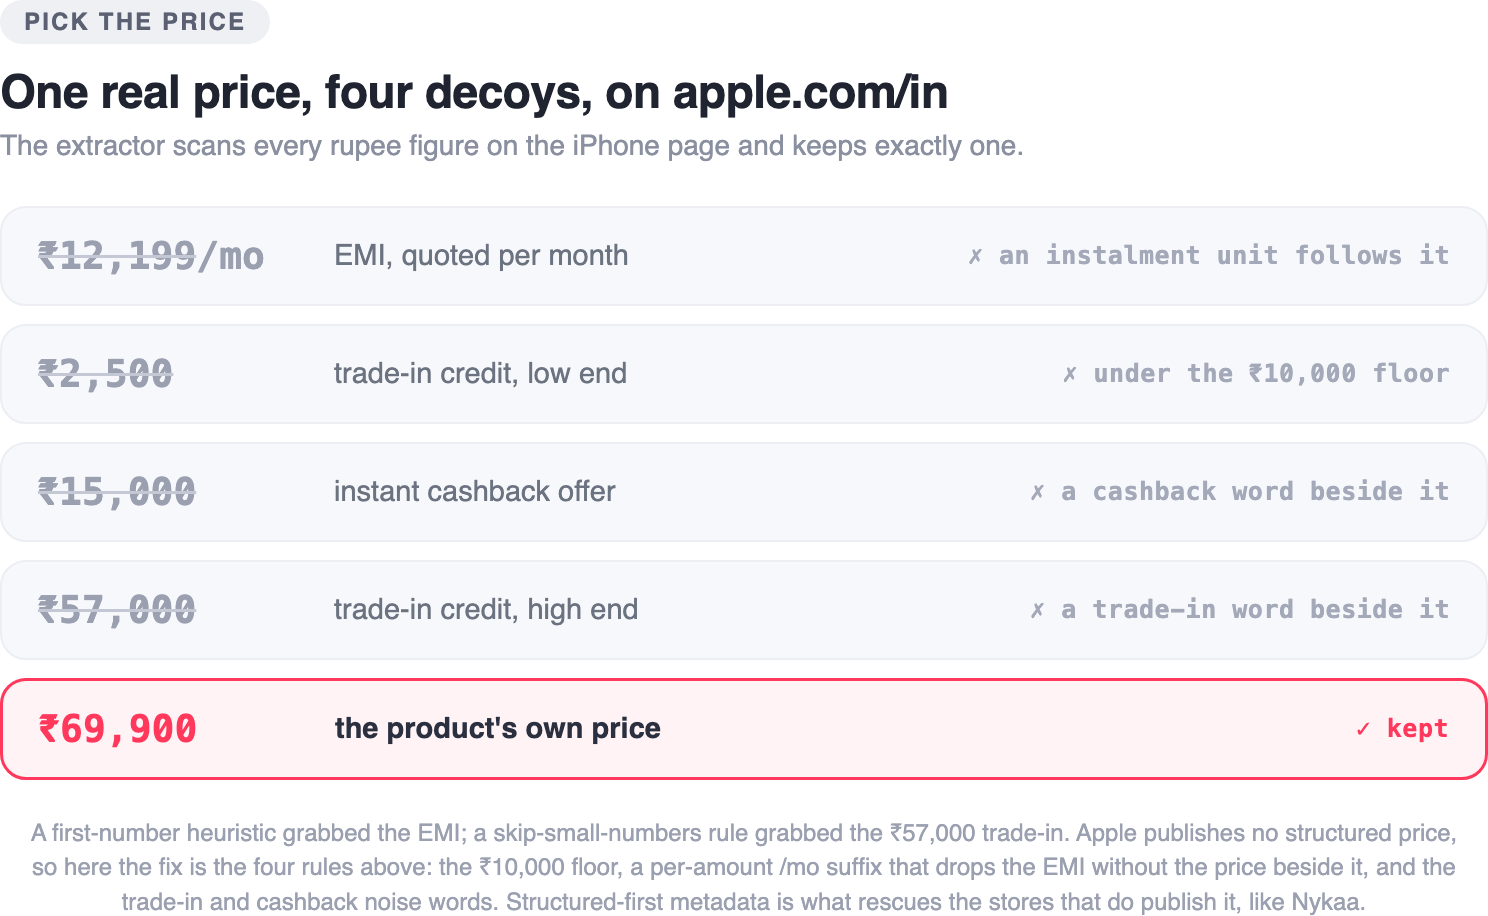
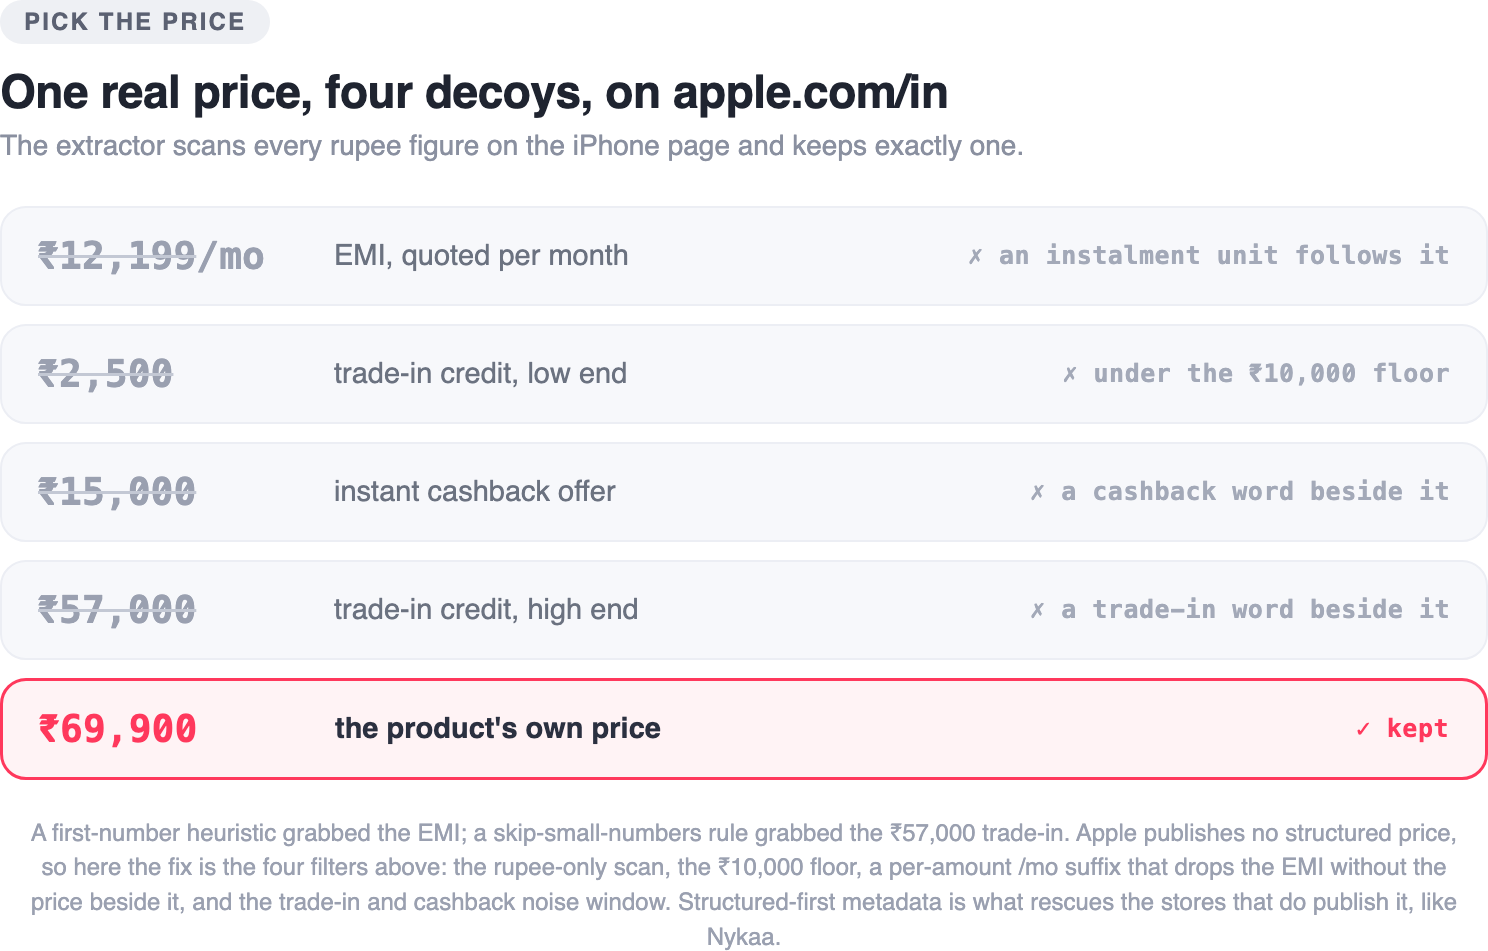
content(09-browser): diagram alt matches its rows, one four-filter count, self-contained scar

diff --git a/medium/09-browser.html b/medium/09-browser.html
@@ -73,7 +73,7 @@ font-size:15px;font-family:-apple-system,sans-serif;color:#7a6a00}
 <p>The page is scraped, the modal is open. Everything now rides on the scrape having found the right number, and on a page like Apple&#x27;s that is the hardest thing in the step.</p>
 <h2>Pick the one real price</h2>
 <p>The naive scraper is easy to write: find the first currency-prefixed number on the page and call it the price. On a clean page it works. On a real one it is wrong almost every time, because a store page is thick with numbers that look exactly like prices and are not.</p>
-<p>Open an iPhone on <code>apple.com/in</code> and the page carries, in rupees, an EMI line (&quot;From ₹12199.00/mo.&quot;), a trade-in credit (&quot;Get ₹2500.00 to ₹57000.00 for your trade-in&quot;), instant cashback, and somewhere in there the real price, ₹69900. The first-number heuristic grabs the EMI. A slightly smarter one that skips small numbers grabs the ₹57000 trade-in figure. Every naive rule captures a decoy.</p>
+<p>Open an iPhone on <code>apple.com/in</code> and the page carries, in rupees, an EMI line (&quot;From ₹12199.00/mo.&quot;), a trade-in credit (&quot;Get ₹2500.00-₹57000.00 for your trade-in&quot;), instant cashback, and somewhere in there the real price, ₹69,900. The first-number heuristic grabs the EMI. A slightly smarter one that skips small numbers grabs the ₹57,000 trade-in figure. Every naive rule captures a decoy.</p>
 <p>Two ideas fix it, and they compose. The first is to prefer the store&#x27;s own structured metadata. A well-built product page publishes its selling price in an OpenGraph or <code>product:price</code> tag, and that number is the live price, already free of the MRP, EMI, and trade-in prose that litters the body. So the extractor reads that first, and only parses the page text when the metadata is absent.</p>
 <figure><a href="https://github.com/srivardhanjalan/kivan-tutorial/blob/main/09-browser/frontend/src/scrapers/methods/firecrawl.ts"><img src="https://raw.githubusercontent.com/srivardhanjalan/kivan-tutorial/main/mocks/mocks-09-code-structured.png?v=PLACEHOLDER" alt="firecrawl.ts: structuredPrice reads the canonical og:price / product:price metadata first, before any prose price is parsed"></a><figcaption><a class="src" href="https://github.com/srivardhanjalan/kivan-tutorial/blob/main/09-browser/frontend/src/scrapers/methods/firecrawl.ts">firecrawl.ts: structuredPrice reads the canonical og:price / product:price metadata first, before any prose price is parsed ↗</a></figcaption></figure>
 <p>Most stores carry that metadata. Apple does not: its price lives in the page body with all the noise, and no clean tag to fall back on. So Apple is the one bespoke scraper, and it carries four filters the shared factory cannot express. It scans rupees only, because <code>apple.com/in</code> quotes solely in rupees, and names INR directly rather than reading a symbol off the page. It rejects any amount under ₹10,000, which on Apple&#x27;s catalog is always an instalment, never a price. It rejects a figure that is itself a monthly instalment, checked as a tight suffix on the amount rather than through a context window. And it drops any amount sitting next to a trade-in or cashback word, the same noise-window check the shared filter runs, widened with Apple&#x27;s own financing vocabulary.</p>
@@ -81,7 +81,7 @@ font-size:15px;font-family:-apple-system,sans-serif;color:#7a6a00}
 <figure><a href="https://github.com/srivardhanjalan/kivan-tutorial/blob/main/09-browser/frontend/src/scrapers/brands/apple.ts"><img src="https://raw.githubusercontent.com/srivardhanjalan/kivan-tutorial/main/mocks/mocks-09-code-apple.png?v=PLACEHOLDER" alt="apple.ts: the bespoke scraper scans rupees only, floors sub-₹10,000 instalments, rejects the EMI by a tight per-amount suffix, and drops trade-in and cashback figures by the noise window"></a><figcaption><a class="src" href="https://github.com/srivardhanjalan/kivan-tutorial/blob/main/09-browser/frontend/src/scrapers/brands/apple.ts">apple.ts: the bespoke scraper scans rupees only, floors sub-₹10,000 instalments, rejects the EMI by a tight per-amount suffix, and drops trade-in and cashback figures by the noise window ↗</a></figcaption></figure>
 <p>Everything Apple does specially, the other brands do not need, so they share one factory. Zara, Nykaa, and Puma each become a few lines of config: the hostnames to match and the SEO junk to strip from the title. A brand whose extraction turns out identical to the generic path is not kept as a near-clone; it falls back to the generic Firecrawl scrape, and the directory still seeds it. An abstraction with one honest caller is a defect, and a clone dressed as a brand is another.</p>
 <p>Every shared scan goes through one currency-aware matcher. It knows the symbols the app supports, lists the multi-character dollar signs before the bare <code>$</code> so a Singapore price is never half-read as a US one, and reports the currency implied by whatever symbol it matched. Apple is the one exception: its rupee-only scan carries no symbol variety for the matcher to read, so it names INR from its own config instead. Either way, the currency travels out of the page and onto the wish.</p>
-<figure><img src="https://raw.githubusercontent.com/srivardhanjalan/kivan-tutorial/main/mocks/mocks-09-price.png?v=PLACEHOLDER" alt="Picking the real price on Apple&#x27;s page: the extractor rejects the EMI per-month figure, the sub-₹10,000 instalment, and the ₹57,000 trade-in credit, and keeps ₹69,900, the one amount that is the product&#x27;s own price"><figcaption>Picking the real price on Apple&#x27;s page: the extractor rejects the EMI per-month figure, the sub-₹10,000 instalment, and the ₹57,000 trade-in credit, and keeps ₹69,900, the one amount that is the product&#x27;s own price</figcaption></figure>
+<figure><img src="https://raw.githubusercontent.com/srivardhanjalan/kivan-tutorial/main/mocks/mocks-09-price.png?v=PLACEHOLDER" alt="Picking the real price on Apple&#x27;s page: the extractor rejects four decoys, the ₹12,199/mo EMI (an instalment unit follows it), the ₹2,500 trade-in credit under the ₹10,000 floor, the ₹15,000 instant cashback (a cashback word beside it), and the ₹57,000 trade-in credit (a trade-in word beside it), and keeps ₹69,900, the one amount that is the product&#x27;s own price"><figcaption>Picking the real price on Apple&#x27;s page: the extractor rejects four decoys, the ₹12,199/mo EMI (an instalment unit follows it), the ₹2,500 trade-in credit under the ₹10,000 floor, the ₹15,000 instant cashback (a cashback word beside it), and the ₹57,000 trade-in credit (a trade-in word beside it), and keeps ₹69,900, the one amount that is the product&#x27;s own price</figcaption></figure>
 <p>The scrape now returns a price and the currency it was quoted in. The wish has to keep both.</p>
 <h2>Carry the currency onto the wish</h2>
 <p>A wish grows two fields this step: <code>cost_currency</code>, the ISO code the price was quoted in, and <code>brand_id</code>, the origin the badge resolves from later. The tempting move is to normalize the price at capture: convert every scraped amount into one home currency, or store it as a ready-made display string like <code>₹69,900</code>. Both throw away the fact the wish most needs to keep, the currency the store actually quoted, and conversion also bakes in a rate that is wrong the day the market moves. So <code>cost_currency</code> stays a plain string label, not a <code>Decimal</code>, and it stores and reads with no coercion. A wish captured from a browsed store carries both new fields. A wish typed by hand or added from step 8&#x27;s catalog carries no currency, and reads in the app&#x27;s default symbol, so the single-currency look is unchanged everywhere it was before.</p>
@@ -105,7 +105,7 @@ font-size:15px;font-family:-apple-system,sans-serif;color:#7a6a00}
 <p><code>terraform.tfvars</code> gains one line, <code>firecrawl_api_key</code>, alongside the Clerk key it already holds. Like <code>seed_storefronts.py</code>, <code>seed_brands.py</code> is not optional: without it, <code>GET /brands</code> returns an empty list and the directory has nothing to browse. Pass it <code>PHOTOS_BUCKET_NAME</code> from <code>terraform output</code> so it knows where to upload the logos. It is idempotent, so a re-run is harmless. And if a fresh <code>terraform apply</code> dies with a bare <code>CREATE_FAILED</code> and no logs, run the apply again: App Runner&#x27;s service creation is intermittently flaky, and a plain retry brings it up on identical config.</p>
 <h2>What bit me</h2>
 <p>Four things cost me time here. One waited for the first real end-to-end run and then failed loudly, and it was the worst of them; the rest the gate and a review pass caught before anything shipped.</p>
-<p><strong>The scraper kept picking a decoy price.</strong> This is the one that bit hardest, because it passed every test I could write and then failed on the real page. I browsed to an iPhone on <code>apple.com/in</code>, tapped Add, and the wish came back priced at ₹57,000. The real price was ₹69,900. Two separate bugs were feeding it. My EMI filter looked at a window of nearby text, and because Apple prints the EMI right beside the real price, that window flagged ₹69,900 as EMI-adjacent and threw it out along with the instalment, so every real price died the same way. Meanwhile the ₹57,000 trade-in credit walked straight through, because the guard meant to catch it searched for the literal <code>get ₹</code>, which never matched once Firecrawl escaped the space between the word and the symbol. The price section walks through both fixes: reject an EMI figure by a per-amount suffix so it disqualifies only itself, and add <code>trade</code> to the noise words the window does catch. I verified against four live pages, not one, and it surfaced a second bug I had not gone looking for: Nykaa was returning its struck-through MRP, ₹649, instead of the ₹422 it was actually selling at. The structured-price preference fixed that one for free, because Nykaa publishes the real ₹422 in <code>product:price:amount</code>, while Apple emits no such tag and stays on the text scan. Apple went from ₹57,000 to ₹69,900, Nykaa from ₹649 to ₹422, and Zara and Puma did not budge.</p>
+<p><strong>The scraper kept picking a decoy price.</strong> This is the one that bit hardest, because it passed every test I could write and then failed on the real page. I browsed to an iPhone on <code>apple.com/in</code>, tapped Add, and the wish came back priced at ₹57,000. The real price was ₹69,900. Two separate bugs were feeding it. My EMI filter looked at a window of nearby text, and because Apple prints the EMI right beside the real price, that window flagged ₹69,900 as EMI-adjacent and threw it out along with the instalment, so every real price died the same way. Meanwhile the ₹57,000 trade-in credit walked straight through, because the guard meant to catch it searched for the literal <code>get ₹</code>, which never matched once Firecrawl escaped the space between the word and the symbol. The fixes: reject an EMI figure by a per-amount suffix so it disqualifies only itself, and add <code>trade</code> to the noise words the window does catch. I verified against four live pages, not one, and it surfaced a second bug I had not gone looking for: Nykaa was returning its struck-through MRP, ₹649, instead of the ₹422 it was actually selling at. The structured-price preference fixed that one for free, because Nykaa publishes the real ₹422 in <code>product:price:amount</code>, while Apple emits no such tag and stays on the text scan. Apple went from ₹57,000 to ₹69,900, Nykaa from ₹649 to ₹422, and Zara and Puma did not budge.</p>
 <p><strong>Seeding Apple at the wrong store would have poisoned every price.</strong> The Apple scraper reads rupees and only rupees, because it is built for <code>apple.com/in</code>. I first seeded the brand pointing at <code>apple.com</code>, the US store, which quotes in dollars. Nothing crashed. It was worse than a crash: browsing that store would have fed a rupee-only scanner a page full of dollar amounts it is physically unable to read, and every scrape would have come back empty or wrong, with no error to point at. A single-currency scraper and the store URL it is seeded against have to name the same storefront, and there is no runtime check that they do, because the currency is a fact about the page, not the code. I caught it reading the seed against the scraper, and pointed Apple at <code>apple.com/in</code>. The lesson stuck: a bespoke scraper&#x27;s assumptions are only as true as the seed row that feeds it.</p>
 <p><strong>Adding the directory re-created the screen next to it.</strong> <code>BrandsScreen</code> started as a copy of <code>StorefrontsScreen</code>, and jscpd flagged the identical import block, the row shell, and the styles immediately. I extracted the shared row first, which felt like the fix and was not: the two screens&#x27; import lists were still byte-identical, because two sibling list screens reach for the same pile of primitives even after the row is shared. The clone only cleared when the row stopped taking markup and took data, the shape the build section lays out. Once it did, each screen imported a handful of high-level pieces and nothing lower, and the duplication was gone for real. A twin screen is a duplication suspect before it is anything else, and sharing the obvious piece is rarely the whole fix.</p>
 <p><strong>Dead plumbing accumulated one field at a time.</strong> The cleanliness gate kept surfacing fields I had added and never wired to anything. A <code>domain</code> on the Brand model, with a comment claiming it stayed in sync with <code>website_url</code>, which nothing enforced, so the comment was a lie the code would never catch. A <code>cost_currency</code> on <code>WishUpdate</code>, for an edit flow that does not exist. An <code>extractImage</code> hook on the scraper config that no brand ever supplied, because image extraction is always the shared default. Each pass of the deadweight lens surfaced one more, so I stopped fixing them one at a time and swept the whole class at once: I read every new field against a real caller before the gate did, and cut the ones that had none. A field with no caller at commit time is a defect, the same as dead code, and a comment that claims a relationship the code does not enforce is worse than no comment.</p>

diff --git a/mocks/img-09-price.html b/mocks/img-09-price.html
@@ -33,6 +33,6 @@
     <div class="row"><span class="amt"><s>&#8377;57,000</s></span><span class="what">trade-in credit, high end</span><span class="verdict rej">&#10007; a trade-in word beside it</span></div>
     <div class="row keep"><span class="amt">&#8377;69,900</span><span class="what">the product's own price</span><span class="verdict acc">&#10003; kept</span></div>
   </div>
-  <div class="foot">A first-number heuristic grabbed the EMI; a skip-small-numbers rule grabbed the &#8377;57,000 trade-in. Apple publishes no structured price, so here the fix is the four rules above: the &#8377;10,000 floor, a per-amount /mo suffix that drops the EMI without the price beside it, and the trade-in and cashback noise words. Structured-first metadata is what rescues the stores that do publish it, like Nykaa.</div>
+  <div class="foot">A first-number heuristic grabbed the EMI; a skip-small-numbers rule grabbed the &#8377;57,000 trade-in. Apple publishes no structured price, so here the fix is the four filters above: the rupee-only scan, the &#8377;10,000 floor, a per-amount /mo suffix that drops the EMI without the price beside it, and the trade-in and cashback noise window. Structured-first metadata is what rescues the stores that do publish it, like Nykaa.</div>
 </div>
 </body></html>

diff --git a/medium/09-browser.md b/medium/09-browser.md
@@ -100,7 +100,7 @@ The page is scraped, the modal is open. Everything now rides on the scrape havin
 
 The naive scraper is easy to write: find the first currency-prefixed number on the page and call it the price. On a clean page it works. On a real one it is wrong almost every time, because a store page is thick with numbers that look exactly like prices and are not.
 
-Open an iPhone on `apple.com/in` and the page carries, in rupees, an EMI line ("From ₹12199.00/mo."), a trade-in credit ("Get ₹2500.00 to ₹57000.00 for your trade-in"), instant cashback, and somewhere in there the real price, ₹69900. The first-number heuristic grabs the EMI. A slightly smarter one that skips small numbers grabs the ₹57000 trade-in figure. Every naive rule captures a decoy.
+Open an iPhone on `apple.com/in` and the page carries, in rupees, an EMI line ("From ₹12199.00/mo."), a trade-in credit ("Get ₹2500.00-₹57000.00 for your trade-in"), instant cashback, and somewhere in there the real price, ₹69,900. The first-number heuristic grabs the EMI. A slightly smarter one that skips small numbers grabs the ₹57,000 trade-in figure. Every naive rule captures a decoy.
 
 Two ideas fix it, and they compose. The first is to prefer the store's own structured metadata. A well-built product page publishes its selling price in an OpenGraph or `product:price` tag, and that number is the live price, already free of the MRP, EMI, and trade-in prose that litters the body. So the extractor reads that first, and only parses the page text when the metadata is absent.
 
@@ -116,7 +116,7 @@ Everything Apple does specially, the other brands do not need, so they share one
 
 Every shared scan goes through one currency-aware matcher. It knows the symbols the app supports, lists the multi-character dollar signs before the bare `$` so a Singapore price is never half-read as a US one, and reports the currency implied by whatever symbol it matched. Apple is the one exception: its rupee-only scan carries no symbol variety for the matcher to read, so it names INR from its own config instead. Either way, the currency travels out of the page and onto the wish.
 
-![Picking the real price on Apple's page: the extractor rejects the EMI per-month figure, the sub-₹10,000 instalment, and the ₹57,000 trade-in credit, and keeps ₹69,900, the one amount that is the product's own price](https://raw.githubusercontent.com/srivardhanjalan/kivan-tutorial/main/mocks/mocks-09-price.png?v=PLACEHOLDER)
+![Picking the real price on Apple's page: the extractor rejects four decoys, the ₹12,199/mo EMI (an instalment unit follows it), the ₹2,500 trade-in credit under the ₹10,000 floor, the ₹15,000 instant cashback (a cashback word beside it), and the ₹57,000 trade-in credit (a trade-in word beside it), and keeps ₹69,900, the one amount that is the product's own price](https://raw.githubusercontent.com/srivardhanjalan/kivan-tutorial/main/mocks/mocks-09-price.png?v=PLACEHOLDER)
 
 The scrape now returns a price and the currency it was quoted in. The wish has to keep both.
 
@@ -164,7 +164,7 @@ This step adds infrastructure: one DynamoDB table (`brands`, read-only, no index
 
 Four things cost me time here. One waited for the first real end-to-end run and then failed loudly, and it was the worst of them; the rest the gate and a review pass caught before anything shipped.
 
-**The scraper kept picking a decoy price.** This is the one that bit hardest, because it passed every test I could write and then failed on the real page. I browsed to an iPhone on `apple.com/in`, tapped Add, and the wish came back priced at ₹57,000. The real price was ₹69,900. Two separate bugs were feeding it. My EMI filter looked at a window of nearby text, and because Apple prints the EMI right beside the real price, that window flagged ₹69,900 as EMI-adjacent and threw it out along with the instalment, so every real price died the same way. Meanwhile the ₹57,000 trade-in credit walked straight through, because the guard meant to catch it searched for the literal `get ₹`, which never matched once Firecrawl escaped the space between the word and the symbol. The price section walks through both fixes: reject an EMI figure by a per-amount suffix so it disqualifies only itself, and add `trade` to the noise words the window does catch. I verified against four live pages, not one, and it surfaced a second bug I had not gone looking for: Nykaa was returning its struck-through MRP, ₹649, instead of the ₹422 it was actually selling at. The structured-price preference fixed that one for free, because Nykaa publishes the real ₹422 in `product:price:amount`, while Apple emits no such tag and stays on the text scan. Apple went from ₹57,000 to ₹69,900, Nykaa from ₹649 to ₹422, and Zara and Puma did not budge.
+**The scraper kept picking a decoy price.** This is the one that bit hardest, because it passed every test I could write and then failed on the real page. I browsed to an iPhone on `apple.com/in`, tapped Add, and the wish came back priced at ₹57,000. The real price was ₹69,900. Two separate bugs were feeding it. My EMI filter looked at a window of nearby text, and because Apple prints the EMI right beside the real price, that window flagged ₹69,900 as EMI-adjacent and threw it out along with the instalment, so every real price died the same way. Meanwhile the ₹57,000 trade-in credit walked straight through, because the guard meant to catch it searched for the literal `get ₹`, which never matched once Firecrawl escaped the space between the word and the symbol. The fixes: reject an EMI figure by a per-amount suffix so it disqualifies only itself, and add `trade` to the noise words the window does catch. I verified against four live pages, not one, and it surfaced a second bug I had not gone looking for: Nykaa was returning its struck-through MRP, ₹649, instead of the ₹422 it was actually selling at. The structured-price preference fixed that one for free, because Nykaa publishes the real ₹422 in `product:price:amount`, while Apple emits no such tag and stays on the text scan. Apple went from ₹57,000 to ₹69,900, Nykaa from ₹649 to ₹422, and Zara and Puma did not budge.
 
 **Seeding Apple at the wrong store would have poisoned every price.** The Apple scraper reads rupees and only rupees, because it is built for `apple.com/in`. I first seeded the brand pointing at `apple.com`, the US store, which quotes in dollars. Nothing crashed. It was worse than a crash: browsing that store would have fed a rupee-only scanner a page full of dollar amounts it is physically unable to read, and every scrape would have come back empty or wrong, with no error to point at. A single-currency scraper and the store URL it is seeded against have to name the same storefront, and there is no runtime check that they do, because the currency is a fact about the page, not the code. I caught it reading the seed against the scraper, and pointed Apple at `apple.com/in`. The lesson stuck: a bespoke scraper's assumptions are only as true as the seed row that feeds it.
 
